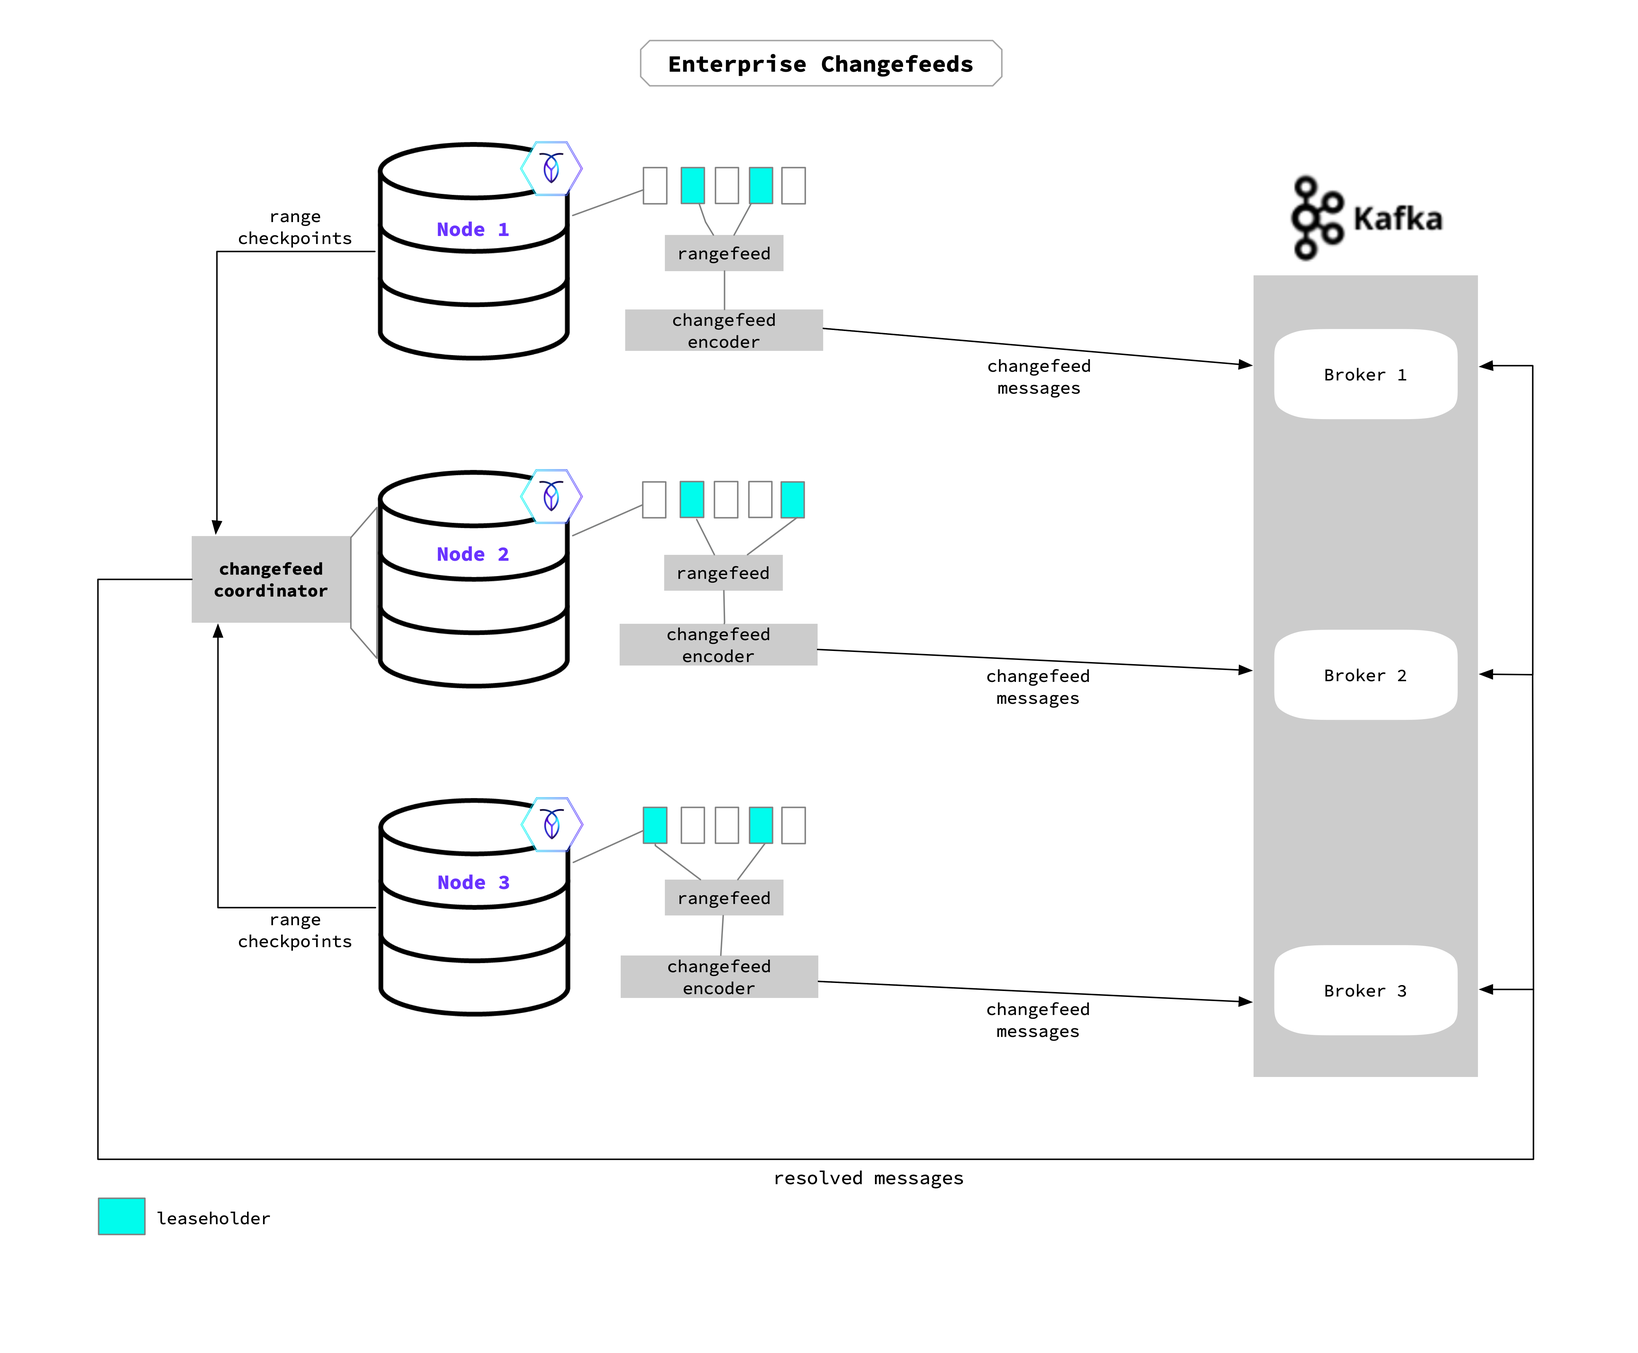
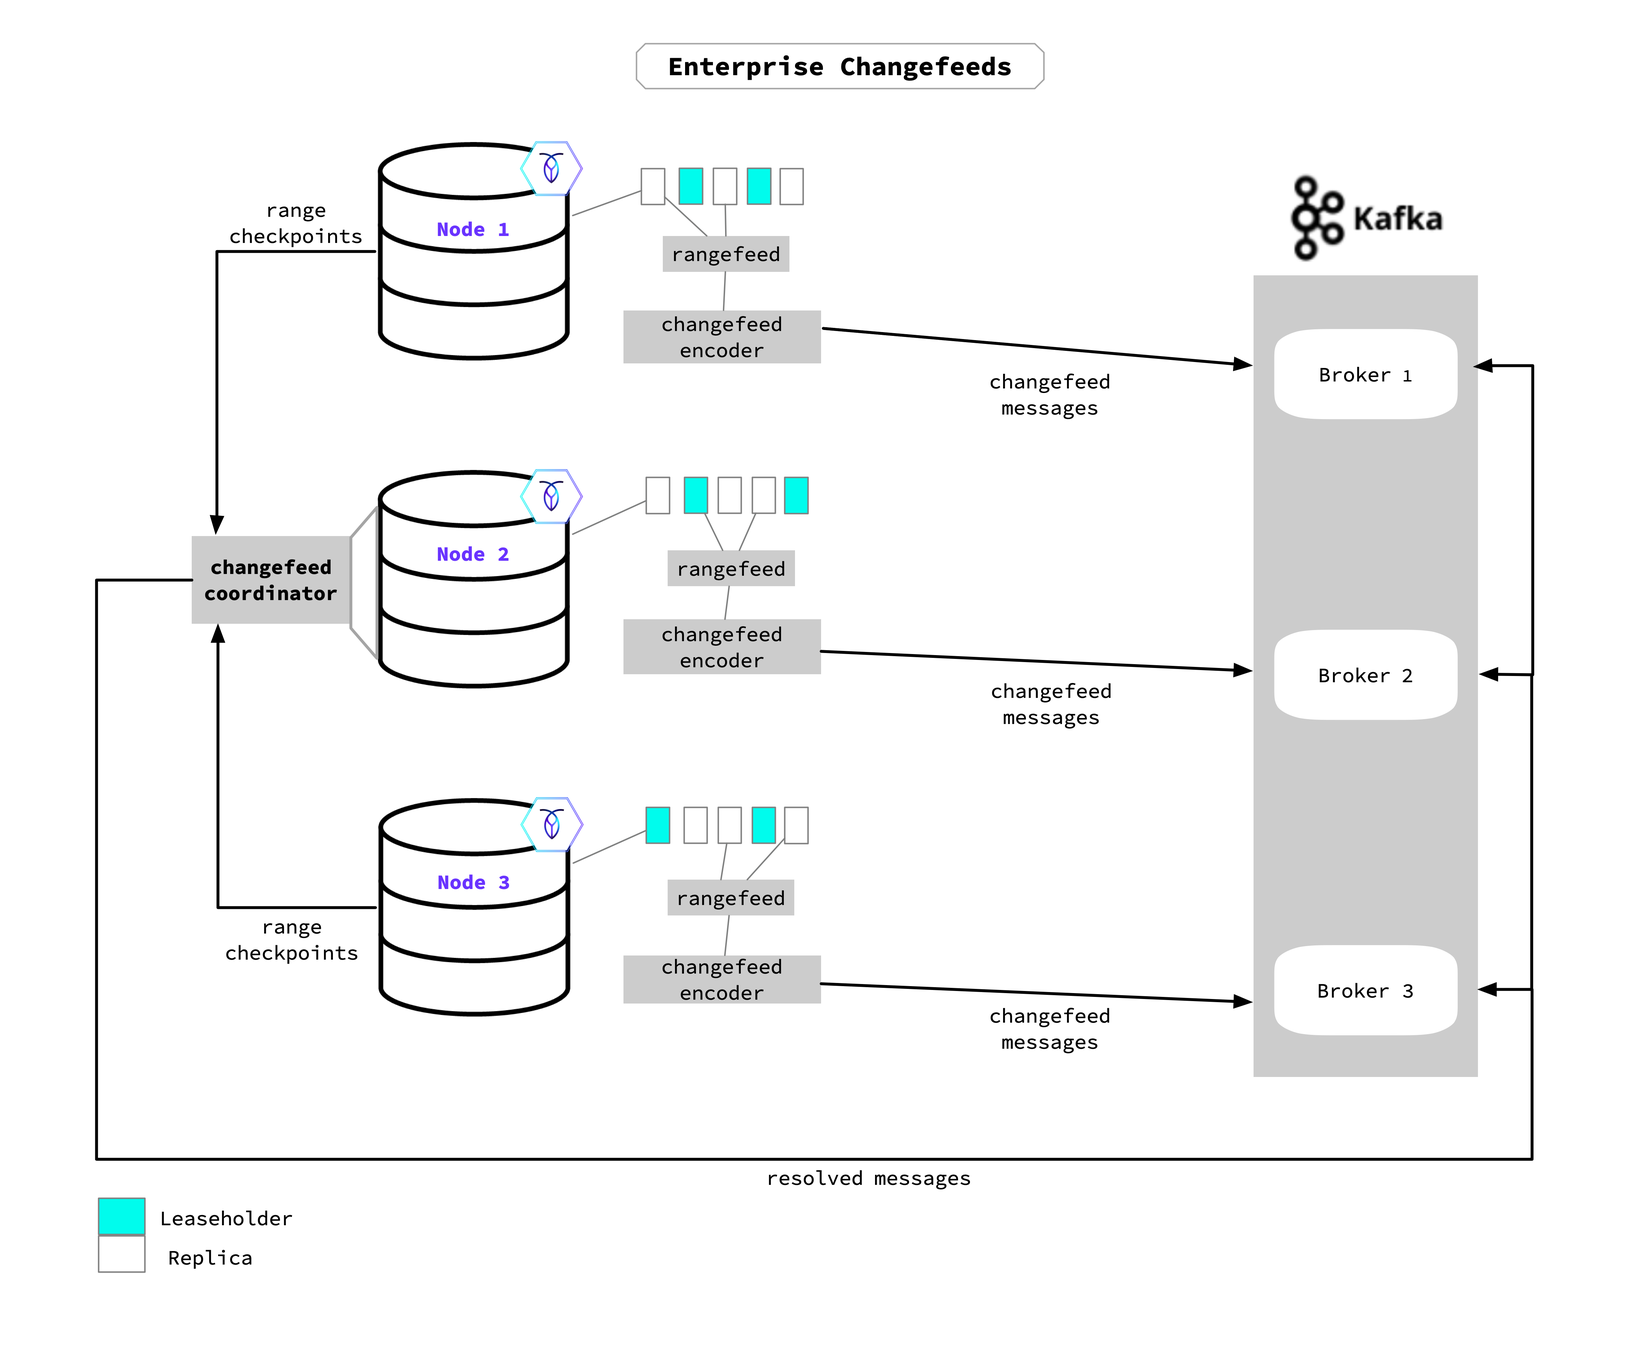
Update the cdc technical overview for new changefeed work distribution

diff --git a/src/current/v24.1/changefeeds-in-multi-region-deployments.md b/src/current/v24.1/changefeeds-in-multi-region-deployments.md
@@ -46,12 +46,12 @@ When you start or [resume]({% link {{ page.version.version }}/resume-job.md %}) 
 
 Once the coordinating node is determined, nodes that match the locality requirements will take part in emitting changefeed messages to the sink. The following will happen in different cases:
 
-- If the [leaseholder]({% link {{ page.version.version }}/architecture/reads-and-writes-overview.md %}#architecture-leaseholder) for the change data matches the filter, it will emit the changefeed messages.
-- If the leaseholder does not match the locality filter, a node will be selected matching the locality filter with a preference for nodes with localities that are more similar to the leaseholder.
+- If a [replica]({% link {{ page.version.version }}/architecture/reads-and-writes-overview.md %}#architecture-replica) for the change data matches the filter, it will emit the changefeed messages.
+- If a replica does not match the locality filter, a node will be selected matching the locality filter with a preference for nodes with localities that are more similar to a replica.
 
-When a node matching the locality filter takes part in the changefeed job, that node will read from the closest [replica]({% link {{ page.version.version }}/architecture/reads-and-writes-overview.md %}#architecture-replica). If the node is the leaseholder, or is itself a replica, it can read from itself. In the scenario where no replicas are available in the region of the assigned node, it may then read from a replica in a different region. As a result, you may want to consider [placing replicas]({% link {{ page.version.version }}/configure-replication-zones.md %}), including potentially [non-voting replicas]({% link {{ page.version.version }}/architecture/replication-layer.md %}#non-voting-replicas) that will have less impact on read latency, in the locality or region that you plan on pinning for changefeed job execution.
+When a node matching the locality filter takes part in the changefeed job, that node will read from the closest [replica]({% link {{ page.version.version }}/architecture/reads-and-writes-overview.md %}#architecture-replica). If the node is a replica, it can read from itself. In the scenario where no replicas are available in the region of the assigned node, it may then read from a replica in a different region. As a result, you may want to consider [placing replicas]({% link {{ page.version.version }}/configure-replication-zones.md %}), including potentially [non-voting replicas]({% link {{ page.version.version }}/architecture/replication-layer.md %}#non-voting-replicas) that will have less impact on read latency, in the locality or region that you plan on pinning for changefeed job execution.
 
-For an overview of how a changefeed job works, see the [How does an Enterprise changefeed work?]({% link {{ page.version.version }}/how-does-an-enterprise-changefeed-work.md %}) section.
+For an overview of how a changefeed job works, refer to the [How does an Enterprise changefeed work?]({% link {{ page.version.version }}/how-does-an-enterprise-changefeed-work.md %}) page.
 
 ## Run changefeeds on regional by row tables
 

diff --git a/src/current/v24.2/changefeeds-in-multi-region-deployments.md b/src/current/v24.2/changefeeds-in-multi-region-deployments.md
@@ -46,12 +46,12 @@ When you start or [resume]({% link {{ page.version.version }}/resume-job.md %}) 
 
 Once the coordinating node is determined, nodes that match the locality requirements will take part in emitting changefeed messages to the sink. The following will happen in different cases:
 
-- If the [leaseholder]({% link {{ page.version.version }}/architecture/reads-and-writes-overview.md %}#architecture-leaseholder) for the change data matches the filter, it will emit the changefeed messages.
-- If the leaseholder does not match the locality filter, a node will be selected matching the locality filter with a preference for nodes with localities that are more similar to the leaseholder.
+- If a [replica]({% link {{ page.version.version }}/architecture/reads-and-writes-overview.md %}#architecture-replica) for the change data matches the filter, it will emit the changefeed messages.
+- If a replica does not match the locality filter, a node will be selected matching the locality filter with a preference for nodes with localities that are more similar to a replica.
 
-When a node matching the locality filter takes part in the changefeed job, that node will read from the closest [replica]({% link {{ page.version.version }}/architecture/reads-and-writes-overview.md %}#architecture-replica). If the node is the leaseholder, or is itself a replica, it can read from itself. In the scenario where no replicas are available in the region of the assigned node, it may then read from a replica in a different region. As a result, you may want to consider [placing replicas]({% link {{ page.version.version }}/configure-replication-zones.md %}), including potentially [non-voting replicas]({% link {{ page.version.version }}/architecture/replication-layer.md %}#non-voting-replicas) that will have less impact on read latency, in the locality or region that you plan on pinning for changefeed job execution.
+When a node matching the locality filter takes part in the changefeed job, that node will read from the closest [replica]({% link {{ page.version.version }}/architecture/reads-and-writes-overview.md %}#architecture-replica). If the node is a replica, it can read from itself. In the scenario where no replicas are available in the region of the assigned node, it may then read from a replica in a different region. As a result, you may want to consider [placing replicas]({% link {{ page.version.version }}/configure-replication-zones.md %}), including potentially [non-voting replicas]({% link {{ page.version.version }}/architecture/replication-layer.md %}#non-voting-replicas) that will have less impact on read latency, in the locality or region that you plan on pinning for changefeed job execution.
 
-For an overview of how a changefeed job works, see the [How does an Enterprise changefeed work?]({% link {{ page.version.version }}/how-does-an-enterprise-changefeed-work.md %}) section.
+For an overview of how a changefeed job works, refer to the [How does an Enterprise changefeed work?]({% link {{ page.version.version }}/how-does-an-enterprise-changefeed-work.md %}) page.
 
 ## Run changefeeds on regional by row tables
 

diff --git a/src/current/v24.1/how-does-an-enterprise-changefeed-work.md b/src/current/v24.1/how-does-an-enterprise-changefeed-work.md
@@ -5,7 +5,7 @@ toc: true
 docs_area: stream_data
 ---
 
-When an {{ site.data.products.enterprise }} changefeed is started on a node, that node becomes the _coordinator_ for the changefeed job (**Node 2** in the diagram). The coordinator node acts as an administrator: keeping track of all other nodes during job execution and the changefeed work as it completes. The changefeed job will run across all nodes in the cluster to access changed data in the watched table. Typically, the [leaseholder]({% link {{ page.version.version }}/architecture/replication-layer.md %}#leases) for a particular range (or the range’s replica) determines which node emits the changefeed data.
+When an {{ site.data.products.enterprise }} changefeed is started on a node, that node becomes the _coordinator_ for the changefeed job (**Node 2** in the diagram). The coordinator node acts as an administrator: keeping track of all other nodes during job execution and the changefeed work as it completes. The changefeed job will run across nodes in the cluster to access changed data in the watched table. The job will evenly distribute changefeed work across the cluster by assigning it to any [replica]({% link {{ page.version.version }}/architecture/replication-layer.md %}) for a particular range, which determines the node that will emit the changefeed data. If a [locality filter]({% link {{ page.version.version }}/changefeeds-in-multi-region-deployments.md %}#run-a-changefeed-job-by-locality) is specified, work is distributed to a node from those that match the locality filter and has the most locality tiers in common with a node that has a replica.
 
 Each node uses its aggregator processors to send back checkpoint progress to the coordinator, which gathers this information to update the high-water mark timestamp. The high-water mark acts as a checkpoint for the changefeed’s job progress, and guarantees that all changes before (or at) the timestamp have been emitted. In the unlikely event that the changefeed’s coordinating node were to fail during the job, that role will move to a different node and the changefeed will restart from the last checkpoint. If restarted, the changefeed may [re-emit messages]({% link {{ page.version.version }}/changefeed-messages.md %}#duplicate-messages) starting at the high-water mark time to the current time. Refer to [Ordering Guarantees]({% link {{ page.version.version }}/changefeed-messages.md %}#ordering-and-delivery-guarantees) for detail on CockroachDB's at-least-once-delivery-guarantee and how per-key message ordering is applied.
 

diff --git a/src/current/v24.2/how-does-an-enterprise-changefeed-work.md b/src/current/v24.2/how-does-an-enterprise-changefeed-work.md
@@ -5,7 +5,7 @@ toc: true
 docs_area: stream_data
 ---
 
-When an {{ site.data.products.enterprise }} changefeed is started on a node, that node becomes the _coordinator_ for the changefeed job (**Node 2** in the diagram). The coordinator node acts as an administrator: keeping track of all other nodes during job execution and the changefeed work as it completes. The changefeed job will run across all nodes in the cluster to access changed data in the watched table. Typically, the [leaseholder]({% link {{ page.version.version }}/architecture/replication-layer.md %}#leases) for a particular range (or the range’s replica) determines which node emits the changefeed data.
+When an {{ site.data.products.enterprise }} changefeed is started on a node, that node becomes the _coordinator_ for the changefeed job (**Node 2** in the diagram). The coordinator node acts as an administrator: keeping track of all other nodes during job execution and the changefeed work as it completes. The changefeed job will run across nodes in the cluster to access changed data in the watched table. The job will evenly distribute changefeed work across the cluster by assigning it to any [replica]({% link {{ page.version.version }}/architecture/replication-layer.md %}) for a particular range, which determines the node that will emit the changefeed data. If a [locality filter]({% link {{ page.version.version }}/changefeeds-in-multi-region-deployments.md %}#run-a-changefeed-job-by-locality) is specified, work is distributed to a node from those that match the locality filter and has the most locality tiers in common with a node that has a replica.
 
 Each node uses its aggregator processors to send back checkpoint progress to the coordinator, which gathers this information to update the high-water mark timestamp. The high-water mark acts as a checkpoint for the changefeed’s job progress, and guarantees that all changes before (or at) the timestamp have been emitted. In the unlikely event that the changefeed’s coordinating node were to fail during the job, that role will move to a different node and the changefeed will restart from the last checkpoint. If restarted, the changefeed may [re-emit messages]({% link {{ page.version.version }}/changefeed-messages.md %}#duplicate-messages) starting at the high-water mark time to the current time. Refer to [Ordering Guarantees]({% link {{ page.version.version }}/changefeed-messages.md %}#ordering-and-delivery-guarantees) for detail on CockroachDB's at-least-once-delivery-guarantee and how per-key message ordering is applied.
 

diff --git a/src/current/v23.1/how-does-an-enterprise-changefeed-work.md b/src/current/v23.1/how-does-an-enterprise-changefeed-work.md
@@ -7,6 +7,10 @@ docs_area: stream_data
 
 When an {{ site.data.products.enterprise }} changefeed is started on a node, that node becomes the _coordinator_ for the changefeed job (**Node 2** in the diagram). The coordinator node acts as an administrator: keeping track of all other nodes during job execution and the changefeed work as it completes. The changefeed job will run across all nodes in the cluster to access changed data in the watched table. Typically, the [leaseholder]({% link {{ page.version.version }}/architecture/replication-layer.md %}#leases) for a particular range (or the range’s replica) determines which node emits the changefeed data.
 
+{{site.data.alerts.callout_info}}
+{% include {{ page.version.version }}/cdc/work-distribution-setting.md %}
+{{site.data.alerts.end}}
+
 Each node uses its aggregator processors to send back checkpoint progress to the coordinator, which gathers this information to update the high-water mark timestamp. The high-water mark acts as a checkpoint for the changefeed’s job progress, and guarantees that all changes before (or at) the timestamp have been emitted. In the unlikely event that the changefeed’s coordinating node were to fail during the job, that role will move to a different node and the changefeed will restart from the last checkpoint. If restarted, the changefeed may [re-emit messages]({% link {{ page.version.version }}/changefeed-messages.md %}#duplicate-messages) starting at the high-water mark time to the current time. Refer to [Ordering Guarantees]({% link {{ page.version.version }}/changefeed-messages.md %}#ordering-and-delivery-guarantees) for detail on CockroachDB's at-least-once-delivery-guarantee and how per-key message ordering is applied.
 
 <img src="{{ 'images/v23.1/changefeed-structure.png' | relative_url }}" alt="Changefeed process in a 3-node cluster" style="border:0px solid #eee;max-width:100%" />

diff --git a/src/current/v23.2/how-does-an-enterprise-changefeed-work.md b/src/current/v23.2/how-does-an-enterprise-changefeed-work.md
@@ -7,6 +7,10 @@ docs_area: stream_data
 
 When an {{ site.data.products.enterprise }} changefeed is started on a node, that node becomes the _coordinator_ for the changefeed job (**Node 2** in the diagram). The coordinator node acts as an administrator: keeping track of all other nodes during job execution and the changefeed work as it completes. The changefeed job will run across all nodes in the cluster to access changed data in the watched table. Typically, the [leaseholder]({% link {{ page.version.version }}/architecture/replication-layer.md %}#leases) for a particular range (or the range’s replica) determines which node emits the changefeed data.
 
+{{site.data.alerts.callout_info}}
+{% include {{ page.version.version }}/cdc/work-distribution-setting.md %}
+{{site.data.alerts.end}}
+
 Each node uses its aggregator processors to send back checkpoint progress to the coordinator, which gathers this information to update the high-water mark timestamp. The high-water mark acts as a checkpoint for the changefeed’s job progress, and guarantees that all changes before (or at) the timestamp have been emitted. In the unlikely event that the changefeed’s coordinating node were to fail during the job, that role will move to a different node and the changefeed will restart from the last checkpoint. If restarted, the changefeed may [re-emit messages]({% link {{ page.version.version }}/changefeed-messages.md %}#duplicate-messages) starting at the high-water mark time to the current time. Refer to [Ordering Guarantees]({% link {{ page.version.version }}/changefeed-messages.md %}#ordering-and-delivery-guarantees) for detail on CockroachDB's at-least-once-delivery-guarantee and how per-key message ordering is applied.
 
 <img src="{{ 'images/v23.2/changefeed-structure.png' | relative_url }}" alt="Changefeed process in a 3-node cluster" style="border:0px solid #eee;max-width:100%" />

diff --git a/src/current/v23.1/changefeeds-in-multi-region-deployments.md b/src/current/v23.1/changefeeds-in-multi-region-deployments.md
@@ -53,6 +53,10 @@ Once the coordinating node is determined, nodes that match the locality requirem
 - If the [leaseholder]({% link {{ page.version.version }}/architecture/reads-and-writes-overview.md %}#architecture-leaseholder) for the change data matches the filter, it will emit the changefeed messages.
 - If the leaseholder does not match the locality filter, a node will be selected matching the locality filter with a preference for nodes with localities that are more similar to the leaseholder.
 
+{{site.data.alerts.callout_info}}
+{% include {{ page.version.version }}/cdc/work-distribution-setting.md %}
+{{site.data.alerts.end}}
+
 When a node matching the locality filter takes part in the changefeed job, that node will read from the closest [replica]({% link {{ page.version.version }}/architecture/reads-and-writes-overview.md %}#architecture-replica). If the node is the leaseholder, or is itself a replica, it can read from itself. In the scenario where no replicas are available in the region of the assigned node, it may then read from a replica in a different region. As a result, you may want to consider [placing replicas]({% link {{ page.version.version }}/configure-replication-zones.md %}), including potentially [non-voting replicas]({% link {{ page.version.version }}/architecture/replication-layer.md %}#non-voting-replicas) that will have less impact on read latency, in the locality or region that you plan on pinning for changefeed job execution.
 
 For an overview of how a changefeed job works, see the [How does an Enterprise changefeed work?]({% link {{ page.version.version }}/how-does-an-enterprise-changefeed-work.md %}) section.

diff --git a/src/current/v23.2/changefeeds-in-multi-region-deployments.md b/src/current/v23.2/changefeeds-in-multi-region-deployments.md
@@ -53,6 +53,10 @@ Once the coordinating node is determined, nodes that match the locality requirem
 - If the [leaseholder]({% link {{ page.version.version }}/architecture/reads-and-writes-overview.md %}#architecture-leaseholder) for the change data matches the filter, it will emit the changefeed messages.
 - If the leaseholder does not match the locality filter, a node will be selected matching the locality filter with a preference for nodes with localities that are more similar to the leaseholder.
 
+{{site.data.alerts.callout_info}}
+{% include {{ page.version.version }}/cdc/work-distribution-setting.md %}
+{{site.data.alerts.end}}
+
 When a node matching the locality filter takes part in the changefeed job, that node will read from the closest [replica]({% link {{ page.version.version }}/architecture/reads-and-writes-overview.md %}#architecture-replica). If the node is the leaseholder, or is itself a replica, it can read from itself. In the scenario where no replicas are available in the region of the assigned node, it may then read from a replica in a different region. As a result, you may want to consider [placing replicas]({% link {{ page.version.version }}/configure-replication-zones.md %}), including potentially [non-voting replicas]({% link {{ page.version.version }}/architecture/replication-layer.md %}#non-voting-replicas) that will have less impact on read latency, in the locality or region that you plan on pinning for changefeed job execution.
 
 For an overview of how a changefeed job works, see the [How does an Enterprise changefeed work?]({% link {{ page.version.version }}/how-does-an-enterprise-changefeed-work.md %}) section.

diff --git a/src/current/_includes/v23.1/cdc/work-distribution-setting.md b/src/current/_includes/v23.1/cdc/work-distribution-setting.md
@@ -1,0 +1,1 @@
+{% include_cached new-in.html version="v23.1.23" %} You can enable the `changefeed.random_replica_selection.enabled` cluster setting to change the way in which a changefeed distributes work across the cluster. With `changefeed.random_replica_selection.enabled` set to `true`, the job will evenly distribute changefeed work across the cluster by assigning it to any [replica]({% link {{ page.version.version }}/architecture/replication-layer.md %}) for a particular range.

diff --git a/src/current/_includes/v23.2/cdc/work-distribution-setting.md b/src/current/_includes/v23.2/cdc/work-distribution-setting.md
@@ -1,0 +1,1 @@
+{% include_cached new-in.html version="v23.2.7" %} You can enable the `changefeed.random_replica_selection.enabled` cluster setting to change the way in which a changefeed distributes work across the cluster. With `changefeed.random_replica_selection.enabled` set to `true`, the job will evenly distribute changefeed work across the cluster by assigning it to any [replica]({% link {{ page.version.version }}/architecture/replication-layer.md %}) for a particular range.
